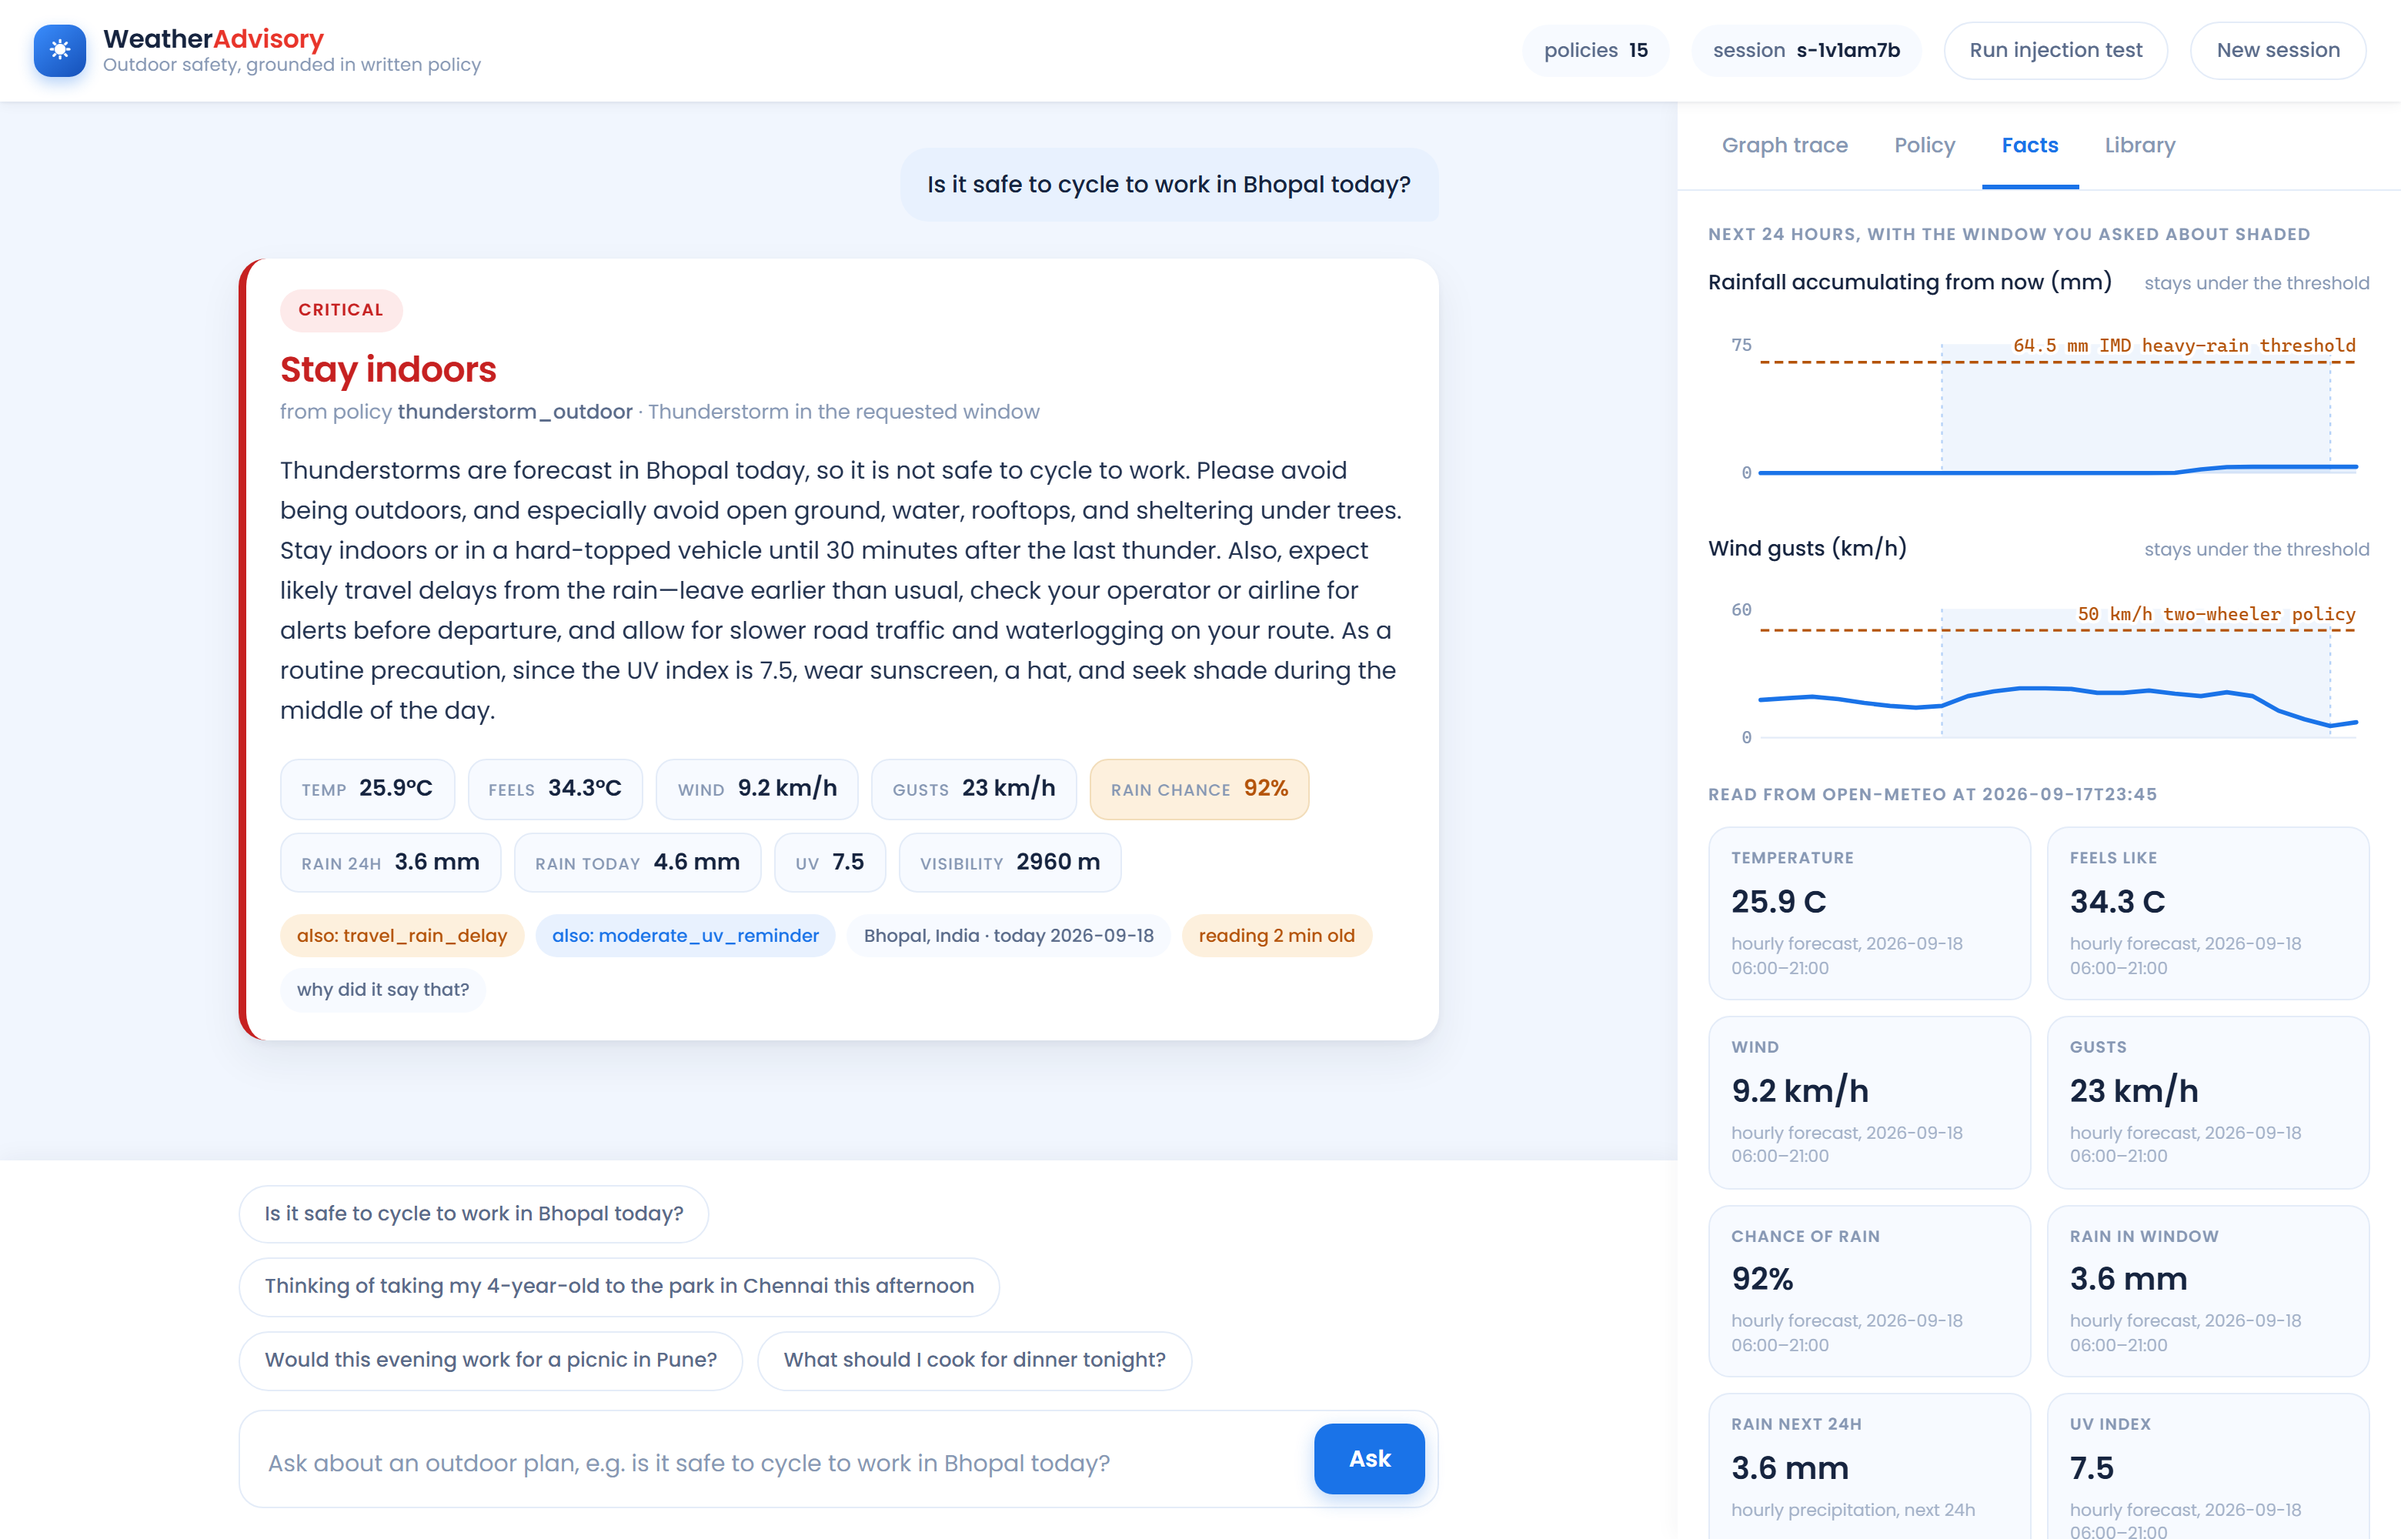
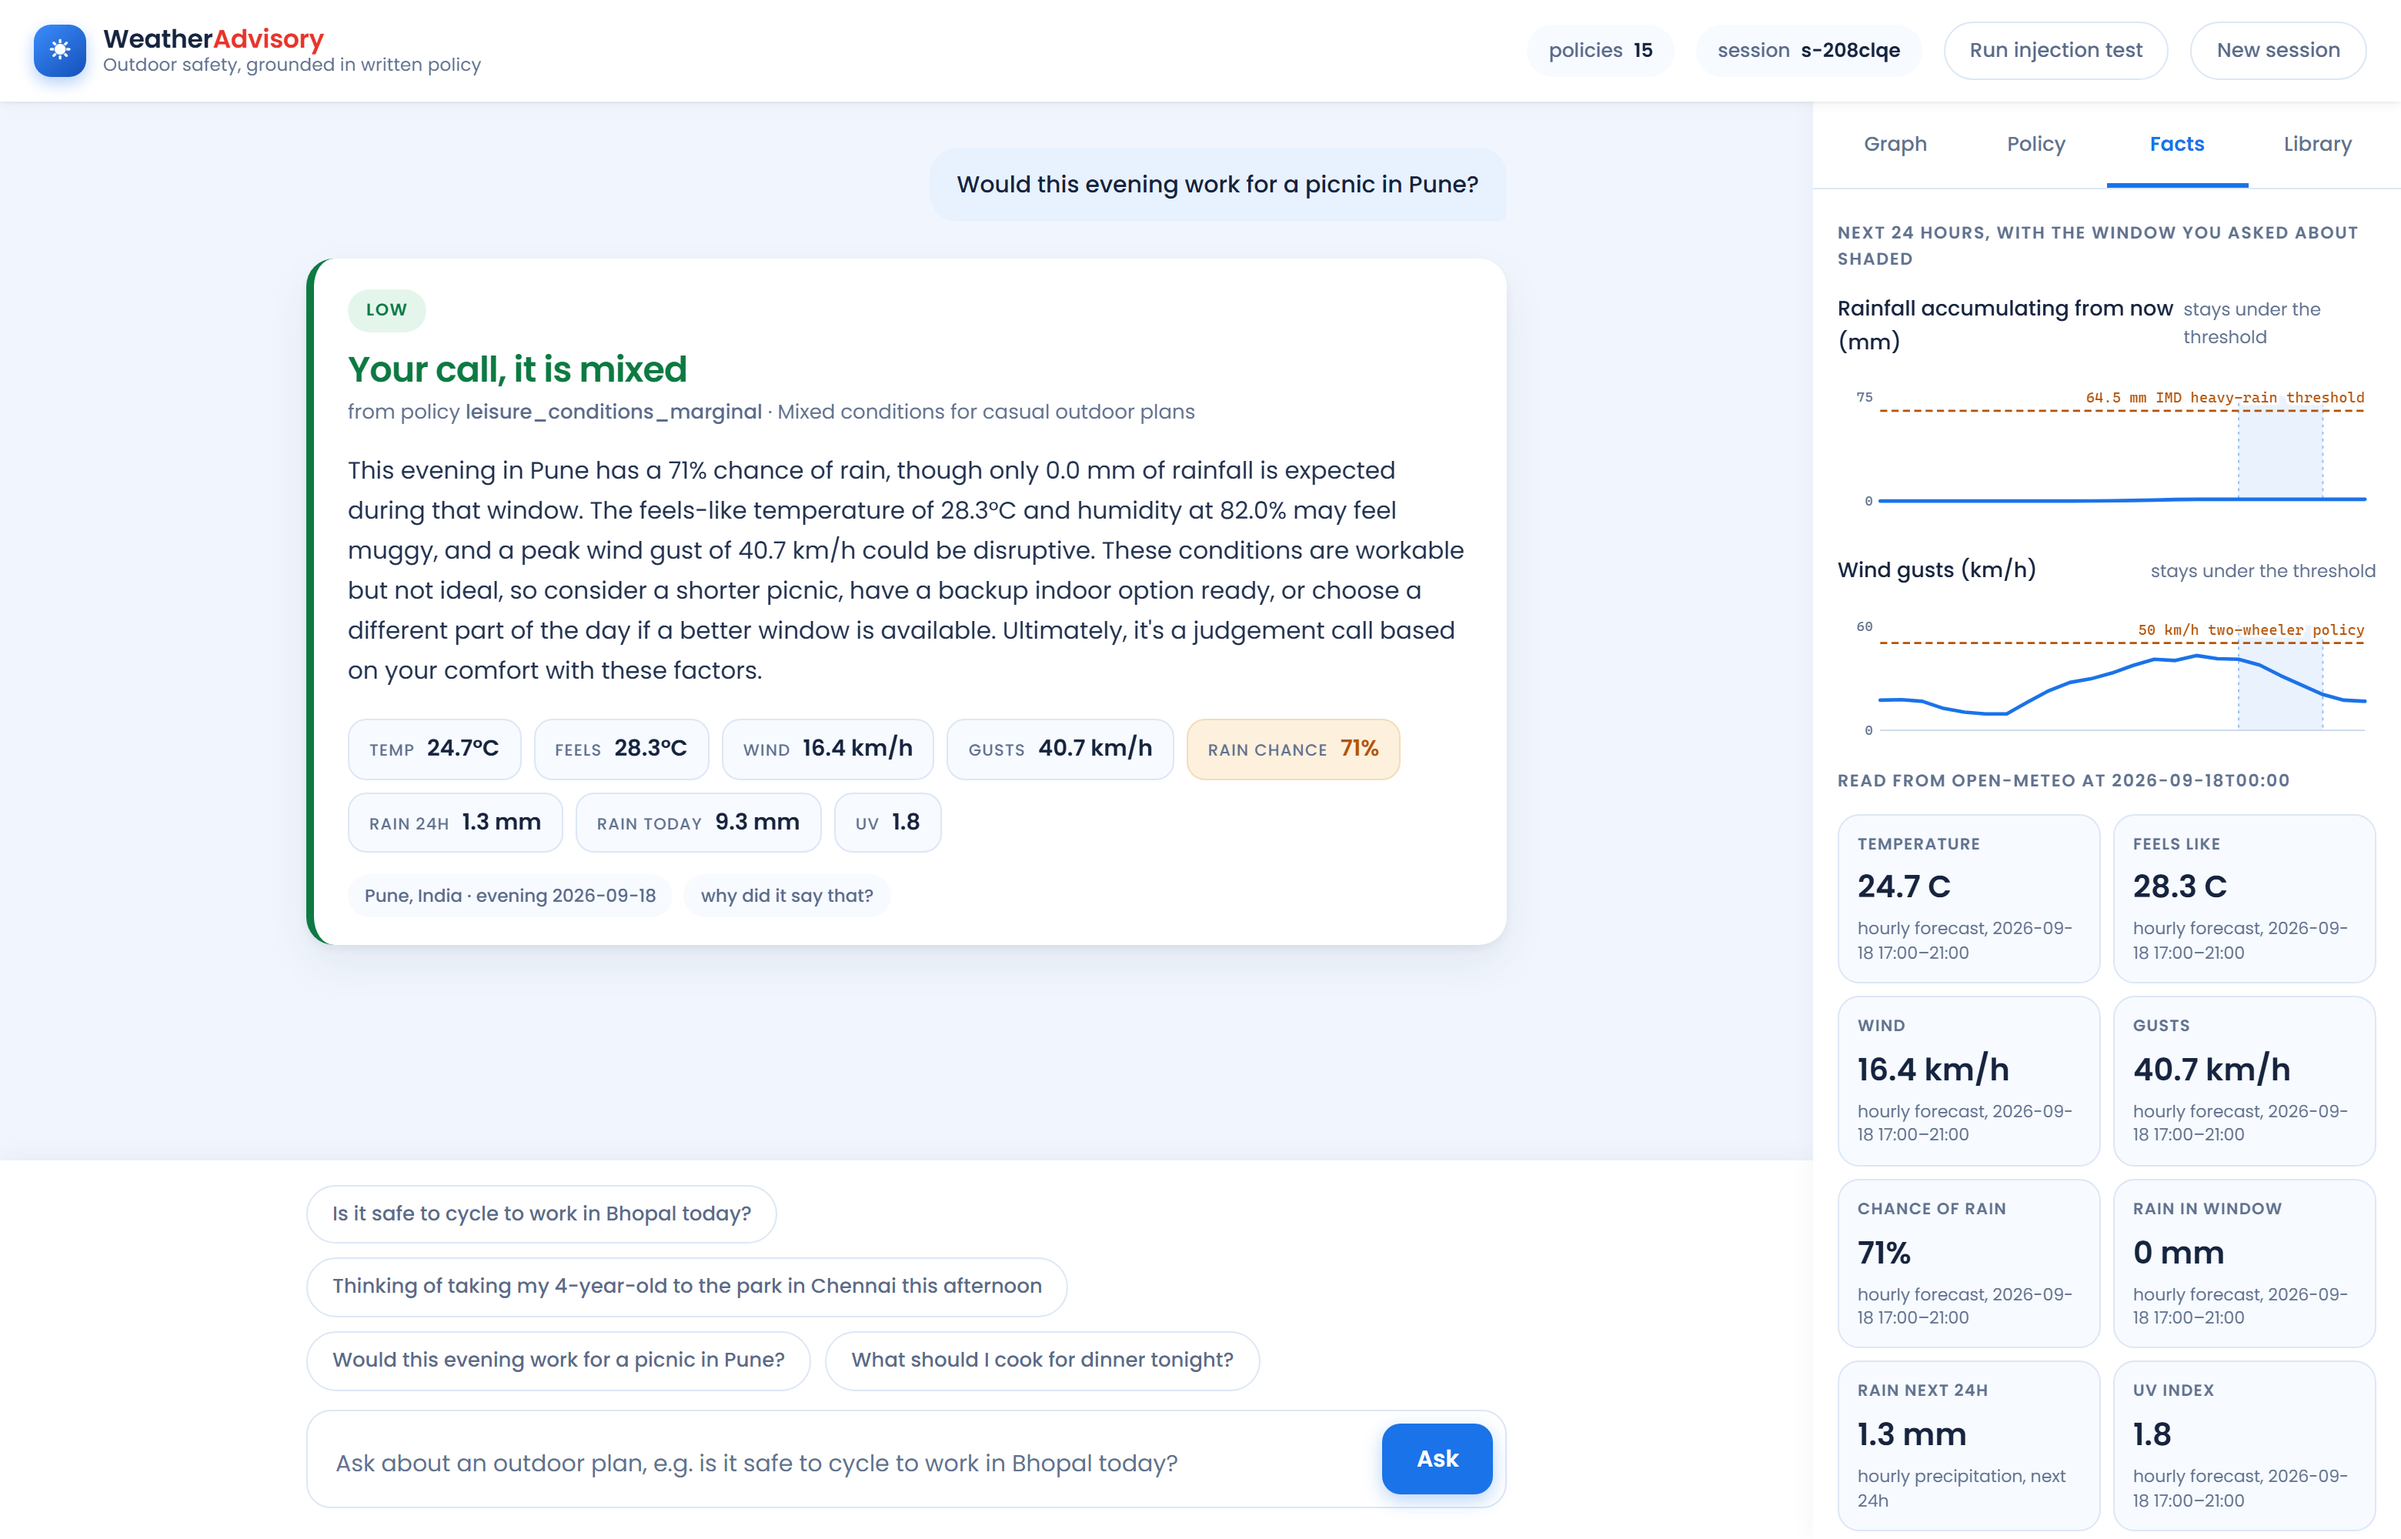
Narrow the inspector another 10 percent
382px rather than 424px, which goes back to the conversation. The four tab
labels share the row, so measuring mattered: "Graph trace" had 4px of slack in
its cell, which is not clipped but is one font substitution away from it. The
label is now "Graph", which is unambiguous given the heading directly beneath it
says the panel shows the graph and the path this turn takes, and every tab has
36px or more to spare.

Fact cards tightened slightly to suit the narrower column.

diff --git a/web/index.html b/web/index.html
@@ -75,7 +75,7 @@ header {
 }
 .ghost:hover { color: var(--brand); border-color: #bcd6fa; background: var(--brand-wash); }
 
-.body { display: grid; grid-template-columns: minmax(0, 1fr) 424px; min-height: 0; }
+.body { display: grid; grid-template-columns: minmax(0, 1fr) 382px; min-height: 0; }
 .chat { display: grid; grid-template-rows: 1fr auto; min-height: 0; }
 .thread { overflow-y: auto; padding: 30px 32px 10px; scroll-behavior: smooth; }
 .turn { max-width: 780px; margin: 0 auto 24px; animation: rise 300ms cubic-bezier(.2,.7,.3,1) both; }
@@ -168,10 +168,10 @@ textarea::placeholder { color: var(--dim); }
 .suggestions button:hover { color: var(--brand); border-color: #bcd6fa; background: var(--brand-wash); }
 
 aside { display: grid; grid-template-rows: auto 1fr; min-height: 0; background: var(--surface); box-shadow: -2px 0 14px rgba(22,36,63,.04); }
-.tabs { display: flex; gap: 2px; padding: 0 10px; border-bottom: 1px solid var(--line); }
+.tabs { display: flex; gap: 0; padding: 0 8px; border-bottom: 1px solid var(--line); }
 .tabs button {
   flex: 1; border: 0; background: transparent; color: var(--dim); padding: 18px 6px 14px;
-  border-bottom: 3px solid transparent; font-size: 13.5px; font-weight: 500; transition: 140ms;
+  border-bottom: 3px solid transparent; font-size: 13px; font-weight: 500; transition: 140ms; white-space: nowrap;
 }
 .tabs button:hover { color: var(--muted); }
 .tabs button[aria-selected="true"] { color: var(--brand); border-bottom-color: var(--brand); font-weight: 600; }
@@ -205,8 +205,8 @@ aside { display: grid; grid-template-rows: auto 1fr; min-height: 0; background: 
 .step-head .sms { font-family: var(--mono); font-size: 11px; color: var(--dim); white-space: nowrap; }
 .sdetail { color: var(--dim); font-size: 12.5px; margin-top: 3px; line-height: 1.5; }
 
-.facts { display: grid; grid-template-columns: repeat(2, 1fr); gap: 10px; }
-.fact { background: var(--raised); border: 1px solid var(--line); border-radius: 14px; padding: 12px 14px; }
+.facts { display: grid; grid-template-columns: repeat(2, 1fr); gap: 8px; }
+.fact { background: var(--raised); border: 1px solid var(--line); border-radius: 14px; padding: 11px 12px; }
 .fact .k { color: var(--dim); font-size: 10.5px; text-transform: uppercase; letter-spacing: .06em; font-weight: 600; }
 .fact .v { font-size: 20px; font-variant-numeric: tabular-nums; font-weight: 600; margin-top: 3px; }
 .fact .src { color: var(--dim); font-size: 11px; margin-top: 4px; line-height: 1.4; }
@@ -336,7 +336,7 @@ dialog::backdrop { background: rgba(22,36,63,.45); backdrop-filter: blur(2px); }
 
     <aside>
       <div class="tabs" role="tablist">
-        <button role="tab" data-tab="trace" aria-selected="true">Graph trace</button>
+        <button role="tab" data-tab="trace" aria-selected="true">Graph</button>
         <button role="tab" data-tab="policy" aria-selected="false">Policy</button>
         <button role="tab" data-tab="facts" aria-selected="false">Facts</button>
         <button role="tab" data-tab="library" aria-selected="false">Library</button>
